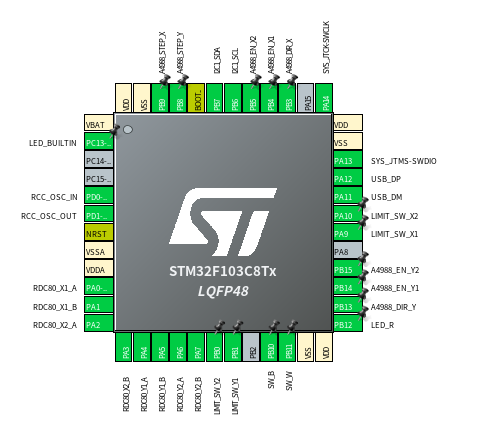
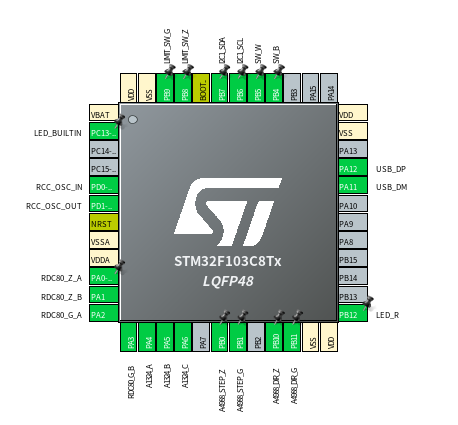
test of hall sensor (using LPF)

Changed region(s): [[0.0306, 0.0306, 0.917, 0.9788], [0.3362, 0.3976, 0.6114, 0.7035]]

diff --git a/Core/Src/main.c b/Core/Src/main.c
@@ -35,6 +35,12 @@ typedef struct __potentio_rdc80 {
 	uint16_t phase_a;
 	uint16_t phase_b;
 } potentio_rdc80;
+
+typedef struct __hall_sensor_A1324 {
+	double sensor_value;
+	double pre_sensor_value;
+	uint8_t adc_num;
+} hall_sens;
 /* USER CODE END PTD */
 
 /* Private define ------------------------------------------------------------*/
@@ -42,6 +48,7 @@ typedef struct __potentio_rdc80 {
 //ADC
 #define ADC_ARR_SIZE 7
 #define ADC_12BIT_MAX 4095
+//RDC80
 #define ADC_RDC80_DEG_CONST 0.0830 //12bitのADC値から、角度に変換するための定数。
 #define ADC_RDC80_MIN 1023-10 //この値未満になった時に、計測する相を切り替える。
 #define ADC_RDC80_MAX 3071+10 //この値より上になった時に、計測する相を切り替える。
@@ -51,6 +58,8 @@ typedef struct __potentio_rdc80 {
 #define ADC_INIT_VAL_RDC80_GA 164
 #define ADC_INIT_VAL_RDC80_GB 2152 //こちらが最初に計測する相
 #define ADC_INIT_DEG_G 8.63281 - 180.0//初期角度(ADの実測値からの計算)
+//A1324
+#define LPF_CONST 0.8
 //(本当は-172degだが、phaseの初期値を-1するためこの角度)
 /* USER CODE END PD */
 
@@ -70,6 +79,7 @@ TIM_HandleTypeDef htim3;
 /* USER CODE BEGIN PV */
 __IO uint16_t adc_vals[ADC_ARR_SIZE];
 potentio_rdc80 prdZ, prdG;
+hall_sens hsens1, hsens2, hsens3;
 /* USER CODE END PV */
 
 /* Private function prototypes -----------------------------------------------*/
@@ -82,9 +92,10 @@ static void MX_TIM3_Init(void);
 /* USER CODE BEGIN PFP */
 //void adc2deg_rdc80(potentio_rdc80 *);
 void adc2deg_rdc80Z(void);
-void driveZ(double command_deg);
+void driveZ(double);
 void adc2deg_rdc80G(void);
-void driveG(double command_deg);
+void driveG(double);
+void lpf(hall_sens *);
 /* USER CODE END PFP */
 
 /* Private user code ---------------------------------------------------------*/
@@ -128,15 +139,29 @@ int main(void)
   /* USER CODE BEGIN 2 */
 	//タイマー割り込みの開始
 	HAL_TIM_Base_Start_IT(&htim3);
-	//prd initialize
+
+	// Potentio RDc80 initialize
 	prdZ.initial_degree = ADC_INIT_DEG_Z;
 	prdZ.half_rotation = 0;//ADC_INIT_DEGの値により変える。
 	prdG.initial_degree = ADC_INIT_DEG_G;
 	prdG.half_rotation = -1;
+
 	//ADCのDMA転送開始
 	//ToDO:たまに、書き込んでもプログラムが作動しないときが有る。この時、start_DMAをコメントアウトして書き込むと、動くようになる。原因不明。
 	//ADCの変換Cycleを増やして様子見する。
 	HAL_ADC_Start_DMA(&hadc1,(uint32_t *)adc_vals, ADC_ARR_SIZE);
+
+	// hall sensor initialize
+	hsens1.adc_num = 6; // PA7 <=> fingertip motor1
+	hsens2.adc_num = 5;
+	hsens3.adc_num = 4;
+	hsens1.sensor_value = 0.0;
+	hsens1.pre_sensor_value = 0.0;
+	hsens2.sensor_value = 0.0;
+	hsens2.pre_sensor_value = 0.0;
+	hsens3.sensor_value = 0.0;
+	hsens3.pre_sensor_value = 0.0;
+
   /* USER CODE END 2 */
 
   /* Infinite loop */
@@ -157,51 +182,52 @@ int main(void)
 
 
 	//usb通信のバッファは、64byte未満にする。
-//	uint8_t cdcBuff[60] = { 0 };
+	uint8_t cdcBuff[60] = { 0 };
+	HAL_GPIO_WritePin(LED_R_GPIO_Port, LED_R_Pin, GPIO_PIN_SET);
 
 	while (1) {
-		while(HAL_GPIO_ReadPin(SW_B_GPIO_Port, SW_B_Pin) != GPIO_PIN_RESET){
-			HAL_GPIO_TogglePin(LED_R_GPIO_Port, LED_R_Pin);
-			HAL_Delay(200);
-		}
-		HAL_GPIO_WritePin(LED_R_GPIO_Port, LED_R_Pin, GPIO_PIN_RESET);
-
-		HAL_GPIO_WritePin(LED_BUILTIN_GPIO_Port, LED_BUILTIN_Pin, GPIO_PIN_RESET);
-		driveZ(360.0*86);
-		HAL_GPIO_WritePin(LED_BUILTIN_GPIO_Port, LED_BUILTIN_Pin, GPIO_PIN_SET);
-
-		while(HAL_GPIO_ReadPin(SW_B_GPIO_Port, SW_B_Pin) != GPIO_PIN_RESET){
-			HAL_GPIO_TogglePin(LED_R_GPIO_Port, LED_R_Pin);
-			HAL_Delay(200);
-		}
-		HAL_GPIO_WritePin(LED_R_GPIO_Port, LED_R_Pin, GPIO_PIN_RESET);
-
-		HAL_GPIO_WritePin(LED_BUILTIN_GPIO_Port, LED_BUILTIN_Pin, GPIO_PIN_RESET);
-		driveG(30.0*20.0);
-		HAL_GPIO_WritePin(LED_BUILTIN_GPIO_Port, LED_BUILTIN_Pin, GPIO_PIN_SET);
-		HAL_Delay(2000);
-
-		while(HAL_GPIO_ReadPin(SW_B_GPIO_Port, SW_B_Pin) != GPIO_PIN_RESET){
-			HAL_GPIO_TogglePin(LED_R_GPIO_Port, LED_R_Pin);
-			HAL_Delay(200);
-		}
-		HAL_GPIO_WritePin(LED_R_GPIO_Port, LED_R_Pin, GPIO_PIN_RESET);
-
-		HAL_GPIO_WritePin(LED_BUILTIN_GPIO_Port, LED_BUILTIN_Pin, GPIO_PIN_RESET);
-		driveZ(0.0);
-		HAL_GPIO_WritePin(LED_BUILTIN_GPIO_Port, LED_BUILTIN_Pin, GPIO_PIN_SET);
-		HAL_Delay(2000);
-
-		while(HAL_GPIO_ReadPin(SW_B_GPIO_Port, SW_B_Pin) != GPIO_PIN_RESET){
-			HAL_GPIO_TogglePin(LED_R_GPIO_Port, LED_R_Pin);
-			HAL_Delay(200);
-		}
-		HAL_GPIO_WritePin(LED_R_GPIO_Port, LED_R_Pin, GPIO_PIN_RESET);
-
-		HAL_GPIO_WritePin(LED_BUILTIN_GPIO_Port, LED_BUILTIN_Pin, GPIO_PIN_RESET);
-		driveG(0.0);
-		HAL_GPIO_WritePin(LED_BUILTIN_GPIO_Port, LED_BUILTIN_Pin, GPIO_PIN_SET);
-		HAL_Delay(2000);
+//		while(HAL_GPIO_ReadPin(SW_B_GPIO_Port, SW_B_Pin) != GPIO_PIN_RESET){
+//			HAL_GPIO_TogglePin(LED_R_GPIO_Port, LED_R_Pin);
+//			HAL_Delay(200);
+//		}
+//		HAL_GPIO_WritePin(LED_R_GPIO_Port, LED_R_Pin, GPIO_PIN_RESET);
+//
+//		HAL_GPIO_WritePin(LED_BUILTIN_GPIO_Port, LED_BUILTIN_Pin, GPIO_PIN_RESET);
+//		driveZ(360.0*86);
+//		HAL_GPIO_WritePin(LED_BUILTIN_GPIO_Port, LED_BUILTIN_Pin, GPIO_PIN_SET);
+//
+//		while(HAL_GPIO_ReadPin(SW_B_GPIO_Port, SW_B_Pin) != GPIO_PIN_RESET){
+//			HAL_GPIO_TogglePin(LED_R_GPIO_Port, LED_R_Pin);
+//			HAL_Delay(200);
+//		}
+//		HAL_GPIO_WritePin(LED_R_GPIO_Port, LED_R_Pin, GPIO_PIN_RESET);
+//
+//		HAL_GPIO_WritePin(LED_BUILTIN_GPIO_Port, LED_BUILTIN_Pin, GPIO_PIN_RESET);
+//		driveG(30.0*20.0);
+//		HAL_GPIO_WritePin(LED_BUILTIN_GPIO_Port, LED_BUILTIN_Pin, GPIO_PIN_SET);
+//		HAL_Delay(2000);
+//
+//		while(HAL_GPIO_ReadPin(SW_B_GPIO_Port, SW_B_Pin) != GPIO_PIN_RESET){
+//			HAL_GPIO_TogglePin(LED_R_GPIO_Port, LED_R_Pin);
+//			HAL_Delay(200);
+//		}
+//		HAL_GPIO_WritePin(LED_R_GPIO_Port, LED_R_Pin, GPIO_PIN_RESET);
+//
+//		HAL_GPIO_WritePin(LED_BUILTIN_GPIO_Port, LED_BUILTIN_Pin, GPIO_PIN_RESET);
+//		driveZ(0.0);
+//		HAL_GPIO_WritePin(LED_BUILTIN_GPIO_Port, LED_BUILTIN_Pin, GPIO_PIN_SET);
+//		HAL_Delay(2000);
+//
+//		while(HAL_GPIO_ReadPin(SW_B_GPIO_Port, SW_B_Pin) != GPIO_PIN_RESET){
+//			HAL_GPIO_TogglePin(LED_R_GPIO_Port, LED_R_Pin);
+//			HAL_Delay(200);
+//		}
+//		HAL_GPIO_WritePin(LED_R_GPIO_Port, LED_R_Pin, GPIO_PIN_RESET);
+//
+//		HAL_GPIO_WritePin(LED_BUILTIN_GPIO_Port, LED_BUILTIN_Pin, GPIO_PIN_RESET);
+//		driveG(0.0);
+//		HAL_GPIO_WritePin(LED_BUILTIN_GPIO_Port, LED_BUILTIN_Pin, GPIO_PIN_SET);
+//		HAL_Delay(2000);
 
 //		HAL_GPIO_TogglePin(LED_BUILTIN_GPIO_Port, LED_BUILTIN_Pin);
 //		if(HAL_GPIO_ReadPin(SW_W_GPIO_Port, SW_W_Pin) == GPIO_PIN_RESET){
@@ -218,13 +244,15 @@ int main(void)
 //		HAL_GPIO_WritePin(A4988_DIR_G_GPIO_Port, A4988_DIR_G_Pin, GPIO_PIN_RESET);
 //		__HAL_TIM_SET_COMPARE(&htim3, TIM_CHANNEL_4, 0);//Motor G
 
-//		HAL_GPIO_TogglePin(LED_R_GPIO_Port, LED_R_Pin);
-//		sprintf(cdcBuff, "%4d, %4d, %4d, %4d,%4d, %4d, %4d\r\n", adc_vals[4],adc_vals[5], adc_vals[6]);
+		HAL_GPIO_TogglePin(LED_BUILTIN_GPIO_Port, LED_BUILTIN_Pin);
+//		sprintf(cdcBuff, "%4d, %4d, %4d, %4d,     %4d, %4d, %4d\r\n", adc_vals[0],adc_vals[1], adc_vals[2], adc_vals[3],adc_vals[4],adc_vals[5], adc_vals[6]);
+		lpf(&hsens3);
+		sprintf(cdcBuff, "%4d, %.0lf\r\n", adc_vals[4],hsens3.sensor_value);
 //		adc2deg_rdc80Z();
 //		adc2deg_rdc80G();
 //		sprintf(cdcBuff, "%.3lf[deg]\r\n", prdG.degree);
-//		CDC_Transmit_FS((uint8_t*) cdcBuff, strlen(cdcBuff));
-//		HAL_Delay(500);
+		CDC_Transmit_FS((uint8_t*) cdcBuff, strlen(cdcBuff));
+		HAL_Delay(200);
     /* USER CODE END WHILE */
 
     /* USER CODE BEGIN 3 */
@@ -312,7 +340,7 @@ static void MX_ADC1_Init(void)
   */
   sConfig.Channel = ADC_CHANNEL_0;
   sConfig.Rank = ADC_REGULAR_RANK_1;
-  sConfig.SamplingTime = ADC_SAMPLETIME_7CYCLES_5;
+  sConfig.SamplingTime = ADC_SAMPLETIME_239CYCLES_5;
   if (HAL_ADC_ConfigChannel(&hadc1, &sConfig) != HAL_OK)
   {
     Error_Handler();
@@ -668,6 +696,10 @@ void driveG(double command_deg){
 	}
 }
 
+void lpf(hall_sens * hs){
+	hs->sensor_value = (LPF_CONST * hs->pre_sensor_value) + ((1-LPF_CONST) * (double)adc_vals[hs->adc_num]);
+	hs->pre_sensor_value = hs->sensor_value;
+}
 /* USER CODE END 4 */
 
 /**
